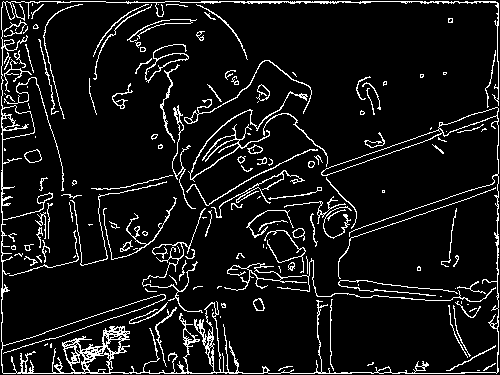
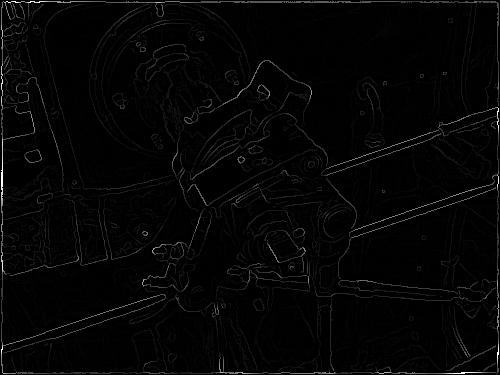
remove hysteresis step, and modify threshold to look good

diff --git a/main.cpp b/main.cpp
@@ -1,7 +1,11 @@
 #include <FreeImage.h>
 #include <math.h>
-
+#include <string.h>
 #include <iostream>
+#include <stdlib.h>
+#include <cstring>
+
+int bpp, width, height, pitch;
 
 // https://github.com/anlcnydn/bilateral/blob/master/bilateral_filter.cpp
 float distance(int x, int y, int i, int j) {
@@ -109,7 +113,7 @@ void applyNonMaxSuppression(BYTE *src, BYTE *dst, float *direction, int imageWid
     }
 }
 
-int WEAK = 25;
+int WEAK = 0;
 int STRONG = 255;
 
 void applyThreshold(BYTE *image, int imageWidth, int imageHeight) {
@@ -142,7 +146,10 @@ void applyHysteresis(BYTE *image, int imageWidth, int imageHeight) {
     for (int i = 1; i < imageHeight - 1; i++) {
         for (int j = 1; j < imageWidth - 1; j++) {
             if (image[i * imageWidth+ j] == WEAK) {
-                if ((image[(i + 1) * imageWidth + j - 1] == STRONG) || (image[(i + 1) * imageWidth + j] == STRONG) || (image[(i + 1) * imageWidth + j + 1] == STRONG) || (image[i * imageWidth + j - 1] == STRONG) or (image[i * imageWidth + j + 1] == STRONG) || (image[(i - 1) * imageWidth + j - 1] == STRONG) or (image[(i - 1) * imageWidth + j] == STRONG) or (image[(i - 1) * imageWidth + j + 1] == STRONG)) {
+                if ((image[(i + 1) * imageWidth + j - 1] == STRONG) || (image[(i + 1) * imageWidth + j] == STRONG) 
+                || (image[(i + 1) * imageWidth + j + 1] == STRONG) || (image[i * imageWidth + j - 1] == STRONG) 
+                || (image[i * imageWidth + j + 1] == STRONG) || (image[(i - 1) * imageWidth + j - 1] == STRONG) 
+                || (image[(i - 1) * imageWidth + j] == STRONG) || (image[(i - 1) * imageWidth + j + 1] == STRONG)) {
                     image[i* imageWidth+ j] = STRONG;
                 } else {
                     image[i* imageWidth+ j] = 0;
@@ -153,56 +160,73 @@ void applyHysteresis(BYTE *image, int imageWidth, int imageHeight) {
 }
 
 void printImageInfo(FIBITMAP *image) {
-    int bpp, width, height, pitch;
-
-    bpp = FreeImage_GetBPP(image);
-    width = FreeImage_GetWidth(image);
-    height = FreeImage_GetHeight(image);
-    pitch = FreeImage_GetPitch(image);
     std::cout << "BPP: " << bpp << " Width: " << width << " Height: " << height << " Pitch: " << pitch << " Red mask: " << FreeImage_GetRedMask(image) << std::endl;
 }
 
-int main() {
-    FIBITMAP *image = FreeImage_Load(FIF_PNG, "images/valve.png");
+void saveImage(const char *filepath, BYTE *dst, const char *stageName){
+    FIBITMAP *image = FreeImage_ConvertFromRawBits(dst, width, height, pitch, bpp, 0, 0, 0);
+    std::string outpath;
+    outpath = std::string(filepath); 
+    outpath.insert(outpath.length() - 4, stageName);
+    FreeImage_Save(FIF_PNG, image, outpath.c_str());
+}
+
+int main(int argc, char* argv[]) {
+    const char* filepath = "";
+
+    if(argc < 3){
+        std::cout << "Usage: ./main -f <image file>" << std::endl;
+        exit(-1);
+    }
+    if(strcmp(argv[1], "-f") == 0){
+        filepath = argv[2];
+    }
+    else{
+        std::cout << "Usage: ./main -f <image file>" << std::endl;
+        exit(-1);
+    }
+    //"images/valve.png"
+
+    FIBITMAP *image = FreeImage_Load(FIF_PNG, filepath);
 
     image = FreeImage_ConvertToGreyscale(image);
     image = FreeImage_ConvertTo8Bits(image);
 
-    printImageInfo(image);
-
-    int bpp, width, height, pitch;
     bpp = FreeImage_GetBPP(image);
     width = FreeImage_GetWidth(image);
     height = FreeImage_GetHeight(image);
     pitch = FreeImage_GetPitch(image);
+
+    printImageInfo(image);
 
     BYTE *src = new BYTE[width * height];
     BYTE *dst = new BYTE[width * height]();
 
     FreeImage_ConvertToRawBits(src, image, pitch, bpp, 0, 0, 0);
 
-    applyBilateralFilter(src, dst, width, height, 5, 75.f, 75.f);
+    applyBilateralFilter(src, dst, width, height, 8, 30.f, 20.f);
+    saveImage(filepath, dst, "-1-bilateral");
 
     src = dst;
     dst = new BYTE[width * height]();
     float *direction = new float[width * height];
 
     applySobelFilter(src, dst, direction, width, height);
+    saveImage(filepath, dst, "-2-sobel");
 
     src = dst;
     dst = new BYTE[width * height]();
 
     applyNonMaxSuppression(src, dst, direction, width, height);
+    saveImage(filepath, dst, "-3-nonmax");
 
     applyThreshold(dst, width, height);
+    saveImage(filepath, dst, "-4-thres");
 
     // src = dst;
     // dst = new BYTE[width * height]();
 
-    applyHysteresis(dst, width,height);
-
-    image = FreeImage_ConvertFromRawBits(dst, width, height, pitch, bpp, 0, 0, 0);
-
-    FreeImage_Save(FIF_PNG, image, "images/valve-output.png");
+    // applyHysteresis(dst, width,height);
+    // saveImage(filepath, dst, "-5-hyster");
     return 0;
 }
